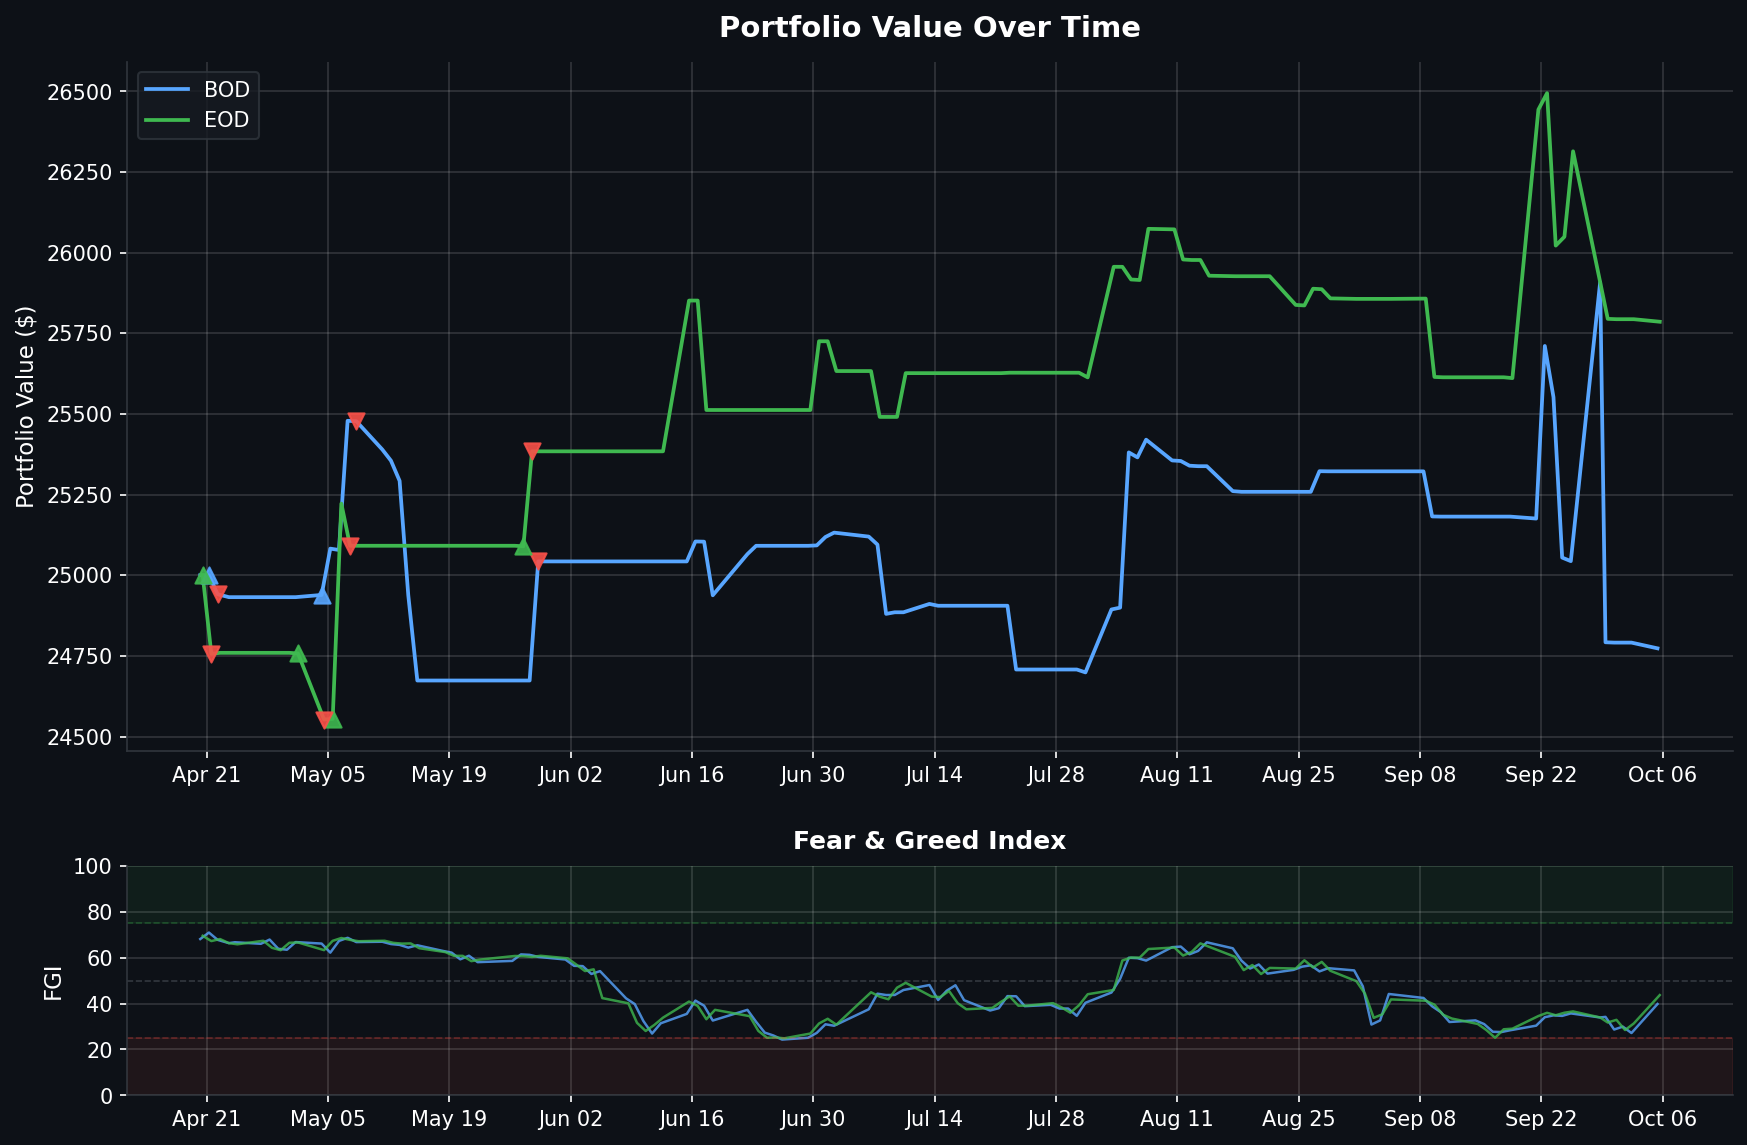
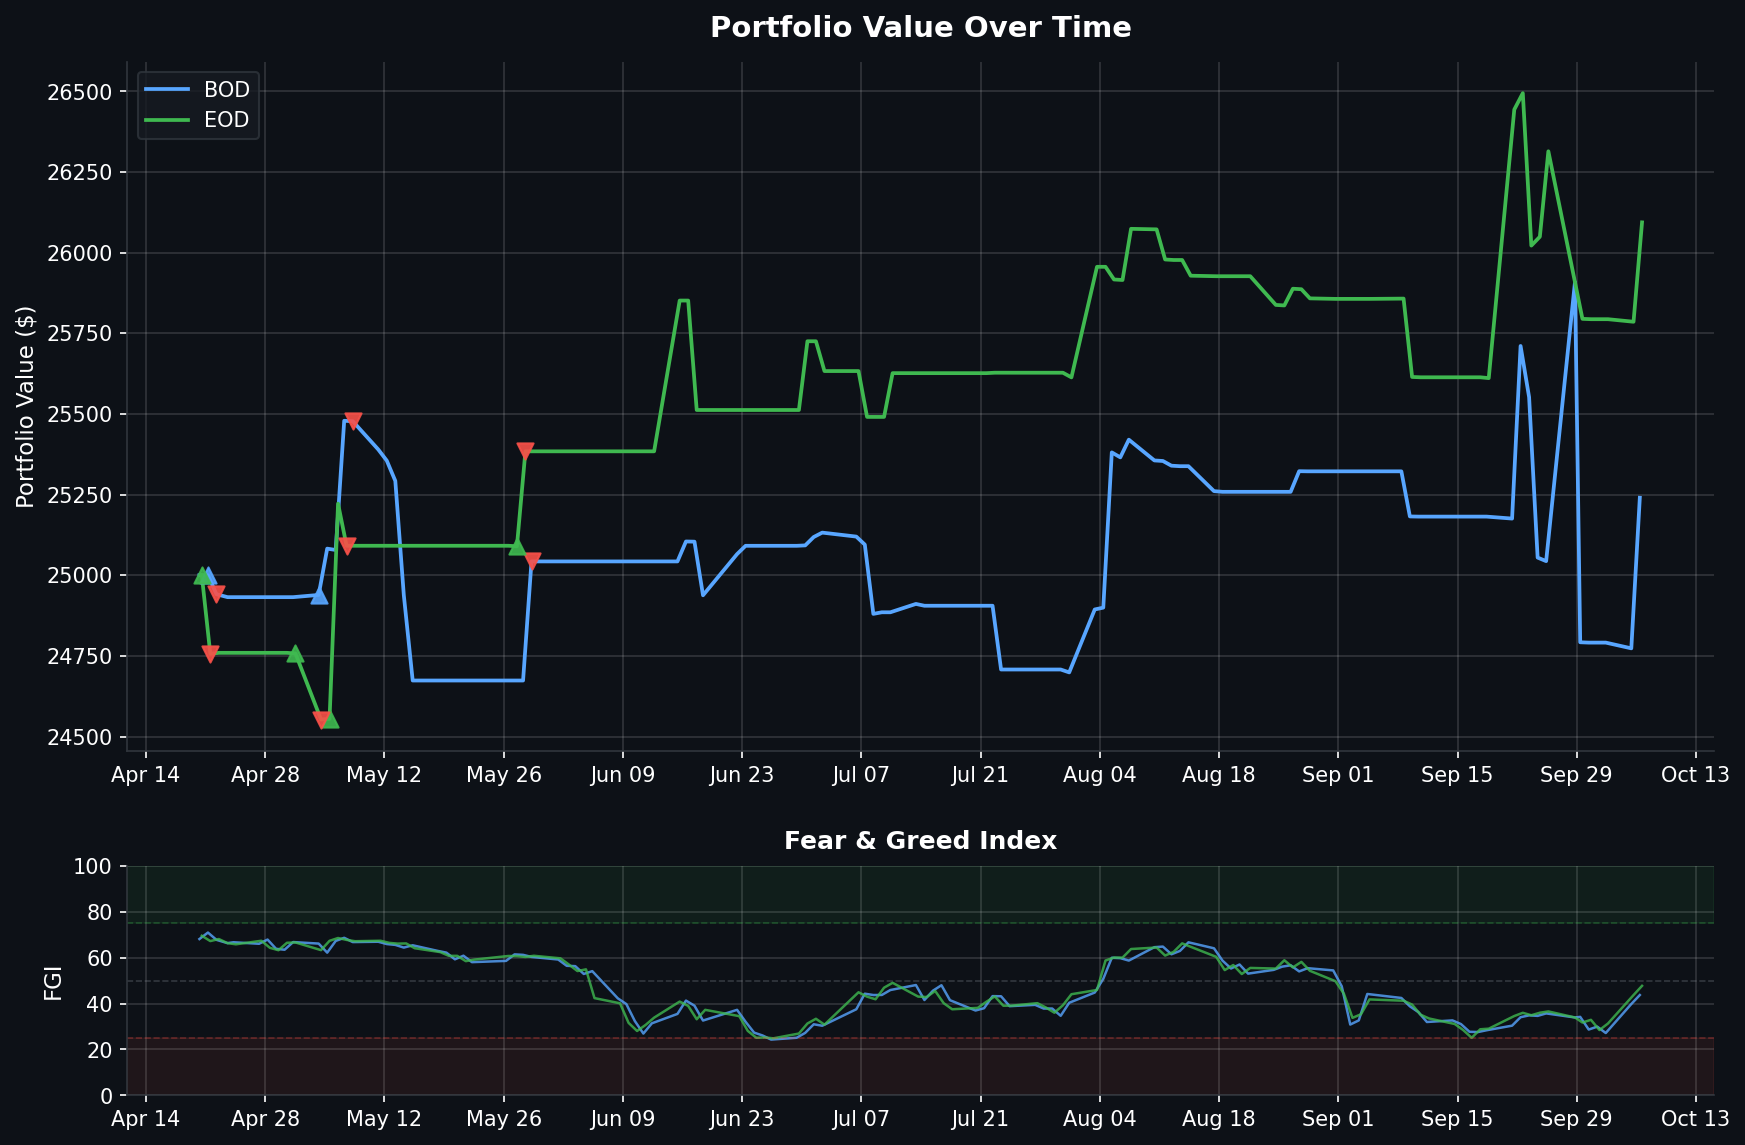
Daily data backup 2026-10-06

diff --git a/README.md b/README.md
@@ -1,6 +1,6 @@
 # Fear & Greed Index Trading Bot
 
-> Dashboard auto-updated daily at market close | Last update: **2026-10-05 13:30 PST**
+> Dashboard auto-updated daily at market close | Last update: **2026-10-06 13:30 PST**
 
 ![Portfolio Performance](assets/portfolio_chart.png)
 
@@ -10,22 +10,23 @@
 
 | Metric | Value |
 |--------|-------|
-| Portfolio Value | **$24,773.37** |
-| Buying Power | $41,758.61 |
-| Current FGI | 39.8 |
-| Position | FLAT |
+| Portfolio Value | **$25,240.22** |
+| Buying Power | $43,065.78 |
+| Current FGI | 43.71 |
+| Position | IN POSITION |
 | Total P&L | **$+995** |
 | Win Rate | 50% (1W / 1L) |
 | Total Round Trips | 2 |
-| Last Signal | NO_ACTION @ 2026-10-05 09:36 |
+| Last Signal | NO_ACTION @ 2026-10-06 09:35 |
 
 <details>
-<summary>Trade History (2 trades)</summary>
+<summary>Trade History (3 trades)</summary>
 
 | Buy Date | Sell Date | Buy Price | Sell Price | Qty | P&L | Return | Result |
 |----------|-----------|-----------|------------|-----|-----|--------|--------|
 | 2026-04-21 | 2026-04-22 | $710.20 | $709.24 | 70 | $-68 | -0.14% | LOSS |
 | 2026-05-04 | 2026-05-08 | $719.65 | $735.05 | 69 | $+1,063 | +2.14% | WIN |
+| 2026-10-05 | — | unknown (late/unlogged fill) | — | 62 | — | — | OPEN |
 
 </details>
 
@@ -34,11 +35,11 @@
 
 | Time | Action | Price | FGI | Momentum | Velocity | Volatility | Reason |
 |------|--------|-------|-----|----------|----------|------------|--------|
+| 10-06 09:35 | NO_ACTION | $778.15 | 43.71 | 6.82 | 4.59 | 0.1041 | Holding position - indicators still favorable (1/8 days) |
 | 10-05 09:36 | NO_ACTION | $770.80 | 39.8 | 7.50 | 3.70 | 0.1028 | BUY did not fill after 3 attempts |
 | 10-02 09:35 | NO_ACTION | $770.74 | 27.17 | -1.43 | -2.34 | 0.1049 | Insufficient momentum/velocity for entry |
 | 10-01 09:35 | NO_ACTION | $764.75 | 29.94 | -1.00 | -1.33 | 0.1075 | Insufficient momentum/velocity for entry |
 | 09-30 09:35 | NO_ACTION | $766.74 | 28.69 | -3.59 | -2.34 | 0.1081 | Insufficient momentum/velocity for entry |
-| 09-29 09:35 | NO_ACTION | $765.87 | 34.2 | -0.42 | -0.14 | 0.1103 | SELL incomplete - still holding 64 after 5 attempts |
 
 </details>
 
@@ -48,17 +49,17 @@
 
 | Metric | Value |
 |--------|-------|
-| Portfolio Value | **$25,785.83** |
-| Buying Power | $42,725.30 |
-| Current FGI | 43.69 |
-| Position | FLAT |
+| Portfolio Value | **$26,093.92** |
+| Buying Power | $43,587.94 |
+| Current FGI | 47.71 |
+| Position | IN POSITION |
 | Total P&L | **$+302** |
 | Win Rate | 50% (2W / 2L) |
 | Total Round Trips | 4 |
-| Last Signal | NO_ACTION @ 2026-10-05 15:51 |
+| Last Signal | NO_ACTION @ 2026-10-06 15:50 |
 
 <details>
-<summary>Trade History (4 trades)</summary>
+<summary>Trade History (5 trades)</summary>
 
 | Buy Date | Sell Date | Buy Price | Sell Price | Qty | P&L | Return | Result |
 |----------|-----------|-----------|------------|-----|-----|--------|--------|
@@ -66,6 +67,7 @@
 | 2026-05-01 | 2026-05-04 | $720.42 | $717.38 | 68 | $-207 | -0.42% | LOSS |
 | 2026-05-05 | 2026-05-07 | $723.86 | $731.90 | 67 | $+539 | +1.11% | WIN |
 | 2026-05-27 | 2026-05-28 | $750.78 | $755.22 | 66 | $+293 | +0.59% | WIN |
+| 2026-10-05 | — | unknown (late/unlogged fill) | — | 65 | — | — | OPEN |
 
 </details>
 
@@ -74,11 +76,11 @@
 
 | Time | Action | Price | FGI | Momentum | Velocity | Volatility | Reason |
 |------|--------|-------|-----|----------|----------|------------|--------|
+| 10-06 15:50 | NO_ACTION | $779.33 | 47.71 | 6.81 | 6.42 | 0.1051 | Holding position - indicators still favorable (1/8 days) |
 | 10-05 15:51 | NO_ACTION | $774.85 | 43.69 | 9.20 | 3.59 | 0.1055 | BUY did not fill after 3 attempts |
 | 10-02 15:50 | NO_ACTION | $769.65 | 31.31 | 0.42 | -0.14 | 0.1035 | Insufficient momentum/velocity for entry |
 | 10-01 15:50 | NO_ACTION | $765.14 | 28.46 | -2.58 | -1.83 | 0.1074 | Insufficient momentum/velocity for entry |
 | 09-30 15:50 | NO_ACTION | $764.73 | 32.91 | 0.05 | -1.22 | 0.1076 | Insufficient momentum/velocity for entry |
-| 09-29 15:50 | NO_ACTION | $764.24 | 31.74 | -2.34 | -1.42 | 0.1105 | SELL incomplete - still holding 66 after 5 attempts |
 
 </details>
 
